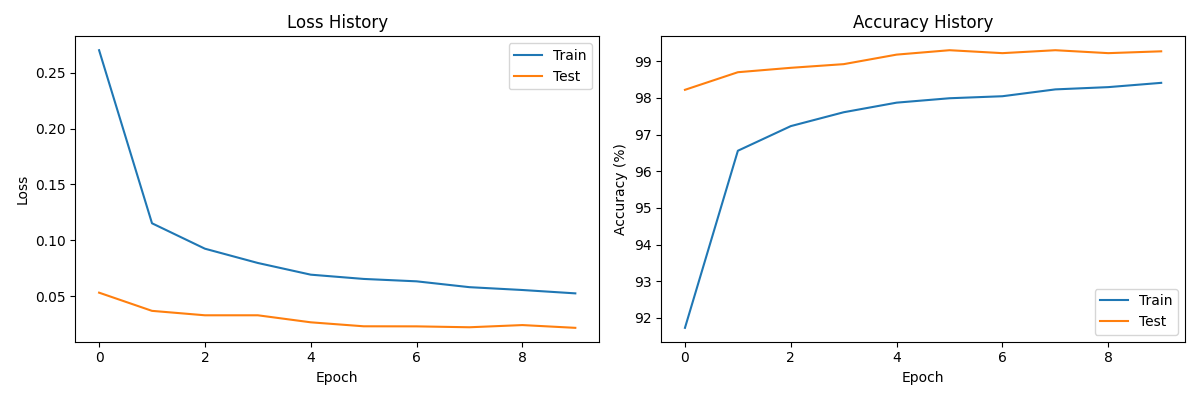
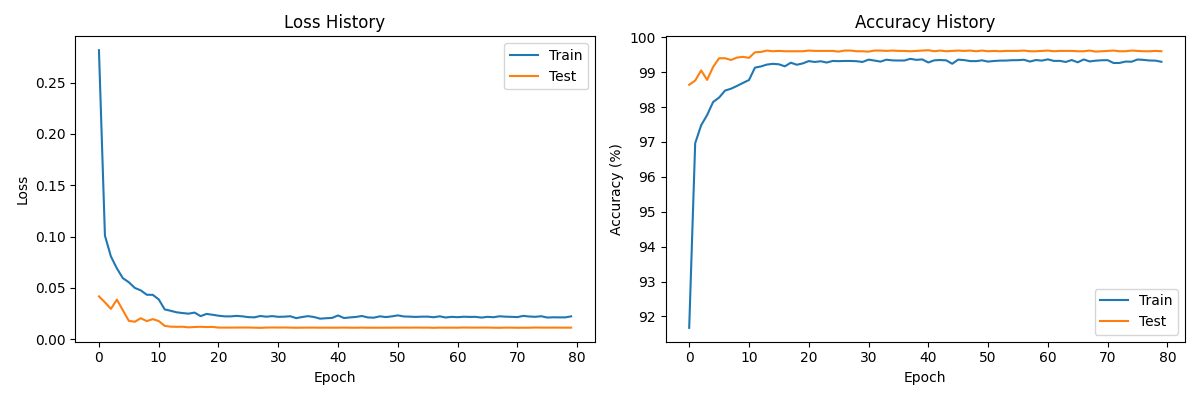
update model architecture to improve accuracy, alter transformation on backed when fetching predictions to match dataset

diff --git a/web/frontend/src/components/DigitRecogniser/Canvas.jsx b/web/frontend/src/components/DigitRecogniser/Canvas.jsx
@@ -4,14 +4,16 @@ export const Canvas = ({ onDrawingComplete }) => {
   const canvasRef = useRef(null);
   const [isDrawing, setIsDrawing] = useState(false);
 
+  // In your Canvas.jsx component:
   useEffect(() => {
     const canvas = canvasRef.current;
     const ctx = canvas.getContext('2d');
     ctx.fillStyle = 'white';
     ctx.fillRect(0, 0, canvas.width, canvas.height);
     ctx.strokeStyle = 'black';
-    ctx.lineWidth = 15;
+    ctx.lineWidth = 20;  // Make lines thicker
     ctx.lineCap = 'round';
+    ctx.lineJoin = 'round';  // Smoother lines
   }, []);
 
   const startDrawing = (e) => {

diff --git a/web/backend/mnist_model.py b/web/backend/mnist_model.py
@@ -1,42 +1,56 @@
-# this is the model architecture
+# web/backend/mnist_model.py
 import torch
 import torch.nn as nn
 import torch.nn.functional as F
 
 class MNISTModel(nn.Module):
-    def __init__(self):
+    def __init__(self, dropout_rate=0.3, num_filters=64):
         super().__init__()
-        # Simple CNN architecture
-        self.conv1 = nn.Conv2d(1, 32, kernel_size=3)
-        self.conv2 = nn.Conv2d(32, 64, kernel_size=3)
-        self.conv2_drop = nn.Dropout2d()
-        self.fc1 = nn.Linear(1600, 128)  # 1600 = 64 * 5 * 5
-        self.fc2 = nn.Linear(128, 10)
+        # First convolutional block
+        self.conv1 = nn.Conv2d(1, num_filters, kernel_size=3, padding=1)
+        self.bn1 = nn.BatchNorm2d(num_filters)
+        
+        # Second convolutional block
+        self.conv2 = nn.Conv2d(num_filters, num_filters*2, kernel_size=3, padding=1)
+        self.bn2 = nn.BatchNorm2d(num_filters*2)
+        
+        # Third convolutional block
+        self.conv3 = nn.Conv2d(num_filters*2, num_filters*4, kernel_size=3, padding=1)
+        self.bn3 = nn.BatchNorm2d(num_filters*4)
+        
+        # Dropout for regularization
+        self.dropout = nn.Dropout(dropout_rate)
+        
+        # Fully connected layers
+        self.fc1 = nn.Linear(num_filters*4 * 3 * 3, 256)
+        self.fc2 = nn.Linear(256, 10)
 
     def forward(self, x):
-        x = F.relu(F.max_pool2d(self.conv1(x), 2))
-        x = F.relu(F.max_pool2d(self.conv2_drop(self.conv2(x)), 2))
-        x = x.view(-1, 1600)  # Flatten
-        x = F.relu(self.fc1(x))
-        x = F.dropout(x, training=self.training)
-        x = self.fc2(x)
-        return F.log_softmax(x, dim=1)
-
-    def get_features(self, x):
-        """Extract features for visualization"""
-        features = []
-        
-        # First conv layer features
+        # First block
         x = self.conv1(x)
-        features.append(('conv1', x))
-        x = F.max_pool2d(x, 2)
+        x = self.bn1(x)
         x = F.relu(x)
+        x = F.max_pool2d(x, 2)
         
-        # Second conv layer features
+        # Second block
         x = self.conv2(x)
-        features.append(('conv2', x))
-        x = self.conv2_drop(x)
-        x = F.max_pool2d(x, 2)
+        x = self.bn2(x)
         x = F.relu(x)
+        x = F.max_pool2d(x, 2)
         
-        return features
+        # Third block
+        x = self.conv3(x)
+        x = self.bn3(x)
+        x = F.relu(x)
+        x = F.max_pool2d(x, 2)
+        
+        # Flatten
+        x = x.view(x.size(0), -1)
+        
+        # Fully connected layers
+        x = self.fc1(x)
+        x = F.relu(x)
+        x = self.dropout(x)
+        x = self.fc2(x)
+        
+        return F.log_softmax(x, dim=1)

diff --git a/src/training/trainer.py b/src/training/trainer.py
@@ -1,9 +1,9 @@
 # Training logic
+# src/training/trainer.py
 import torch
 import torch.nn as nn
 import torch.optim as optim
 from torch.utils.data import DataLoader
-from typing import Dict, List
 import logging
 from pathlib import Path
 
@@ -13,9 +13,10 @@ class MNISTTrainer:
         model: nn.Module,
         train_loader: DataLoader,
         test_loader: DataLoader,
-        learning_rate: float = 0.01,
+        learning_rate: float = 0.001,
         epochs: int = 10,
-        device: str = 'cuda' if torch.cuda.is_available() else 'cpu'
+        device: str = 'cuda' if torch.cuda.is_available() else 'cpu',
+        use_scheduler: bool = False  # Added parameter
     ):
         self.model = model.to(device)
         self.train_loader = train_loader
@@ -23,18 +24,30 @@ class MNISTTrainer:
         self.device = device
         self.epochs = epochs
         
-        # Initialize optimizer and criterion
+        # Initialize optimizer
         self.optimizer = optim.Adam(model.parameters(), lr=learning_rate)
+        
+        # Initialize learning rate scheduler if requested
+        self.scheduler = None
+        if use_scheduler:
+            self.scheduler = optim.lr_scheduler.ReduceLROnPlateau(
+                self.optimizer,
+                mode='min',
+                factor=0.1,
+                patience=3,
+                verbose=True
+            )
+        
+        # Initialize criterion
         self.criterion = nn.CrossEntropyLoss()
         
         # Initialize metrics tracking
-        self.train_losses: List[float] = []
-        self.test_losses: List[float] = []
-        self.train_accuracies: List[float] = []
-        self.test_accuracies: List[float] = []
+        self.train_losses = []
+        self.test_losses = []
+        self.train_accuracies = []
+        self.test_accuracies = []
         
         # Setup logging
-        logging.basicConfig(level=logging.INFO)
         self.logger = logging.getLogger(__name__)
         
     def train_epoch(self):
@@ -104,6 +117,10 @@ class MNISTTrainer:
         
         self.test_losses.append(avg_loss)
         self.test_accuracies.append(accuracy)
+        
+        # Update learning rate scheduler if it exists
+        if self.scheduler is not None:
+            self.scheduler.step(avg_loss)
         
         return avg_loss, accuracy
         

diff --git a/web/backend/main.py b/web/backend/main.py
@@ -1,32 +1,37 @@
+# web/backend/main.py
 from fastapi import FastAPI, UploadFile, File
 from fastapi.middleware.cors import CORSMiddleware
 import torch
 import torch.nn.functional as F
 from PIL import Image
 import io
-import numpy as np
 from torchvision import transforms
+from mnist_model import MNISTModel
 import sys
 import os
-from mnist_model import MNISTModel
+from pathlib import Path
 
 app = FastAPI()
 
 # Enable CORS
 app.add_middleware(
     CORSMiddleware,
-    allow_origins=["http://localhost:3000"],  # React app URL
+    allow_origins=["http://localhost:3000"],
     allow_credentials=True,
     allow_methods=["*"],
     allow_headers=["*"],
 )
 
-# Load model
+# Load model with the same parameters used during training
 device = torch.device("cuda" if torch.cuda.is_available() else "cpu")
-model = MNISTModel().to(device)
+model = MNISTModel(dropout_rate=0.3, num_filters=64).to(device)
+
+# Get the absolute path to the model file
+project_root = Path(__file__).parent.parent.parent
+model_path = project_root / "models" / "mnist_model.pth"
 
 # Load the checkpoint and extract just the model state dict
-checkpoint = torch.load("../../models/mnist_model.pth", map_location=device)
+checkpoint = torch.load(str(model_path), map_location=device)
 model.load_state_dict(checkpoint['model_state_dict'])
 model.eval()
 
@@ -35,6 +40,8 @@ transform = transforms.Compose([
     transforms.Grayscale(),
     transforms.Resize((28, 28)),
     transforms.ToTensor(),
+    # MNIST uses white digits on black background
+    transforms.Lambda(lambda x: 1 - x),  # Invert the colors
     transforms.Normalize((0.1307,), (0.3081,))
 ])
 
@@ -51,9 +58,7 @@ async def predict(file: UploadFile = File(...)):
     with torch.no_grad():
         output = model(tensor)
         probabilities = F.softmax(output, dim=1)
-        predicted_class = torch.argmax(probabilities, dim=1).item()
-        confidence = probabilities[0][predicted_class].item()
-    
+        
     # Get top 3 predictions
     top3_prob, top3_indices = torch.topk(probabilities[0], 3)
     predictions = [

diff --git a/train.py b/train.py
@@ -24,7 +24,7 @@ def main():
     logger.info("Loading data...")
     data_module = MNISTDataModule(
         data_dir='./data',
-        batch_size=BATCH_SIZE
+        batch_size=BATCH_SIZE,
         use_augmentation=True #artificially increase the size and diversity of a dataset 
     )
     data_module.setup()
